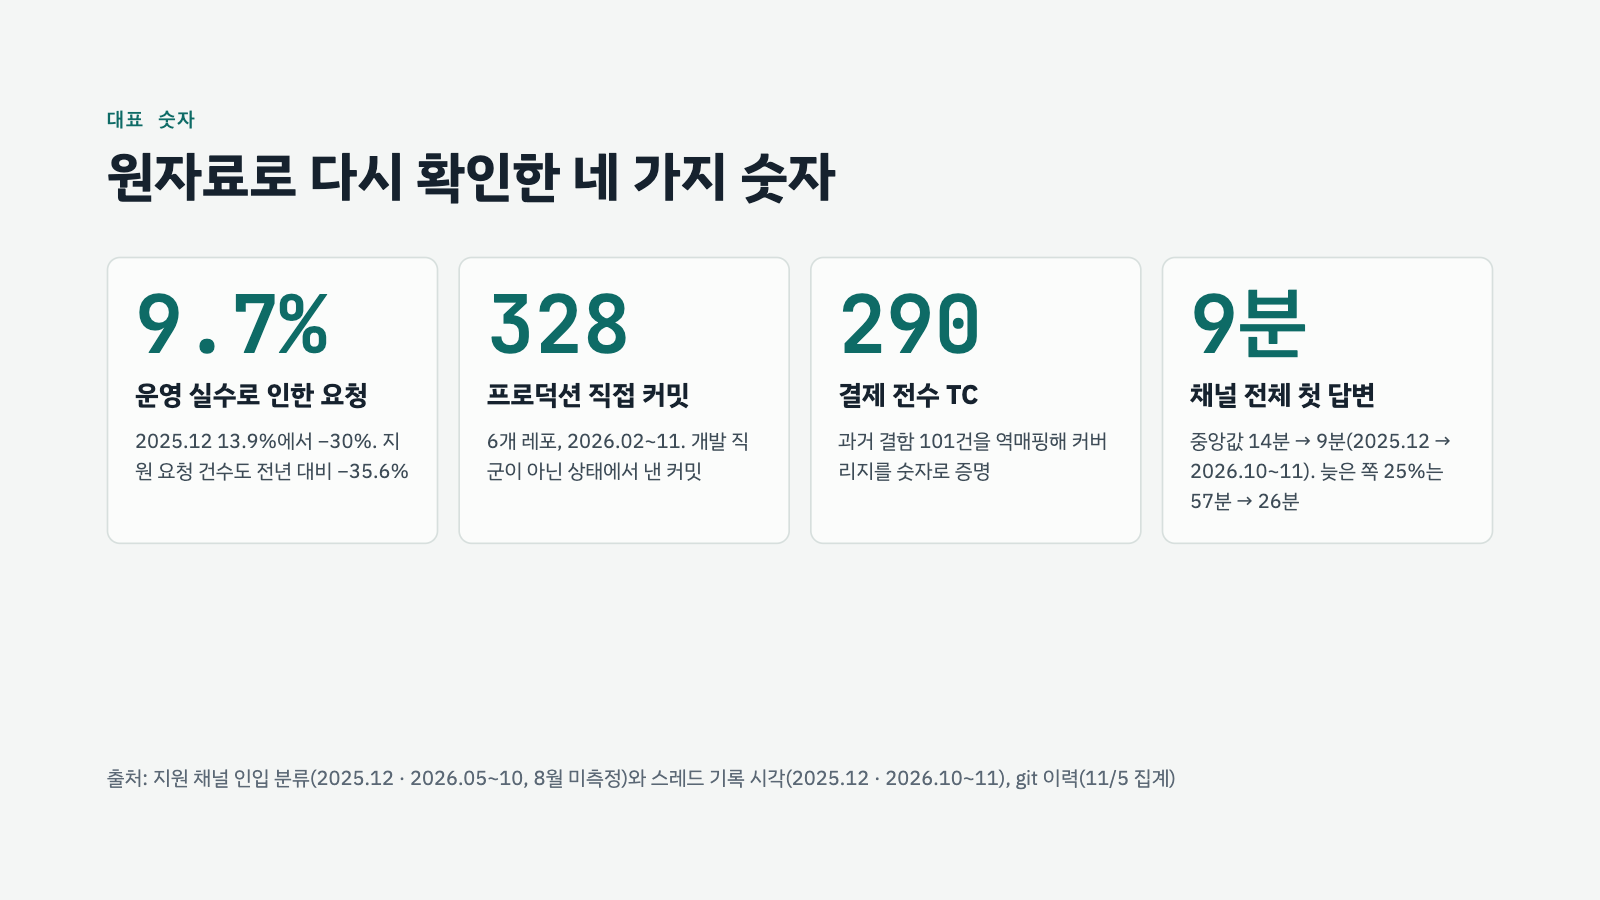
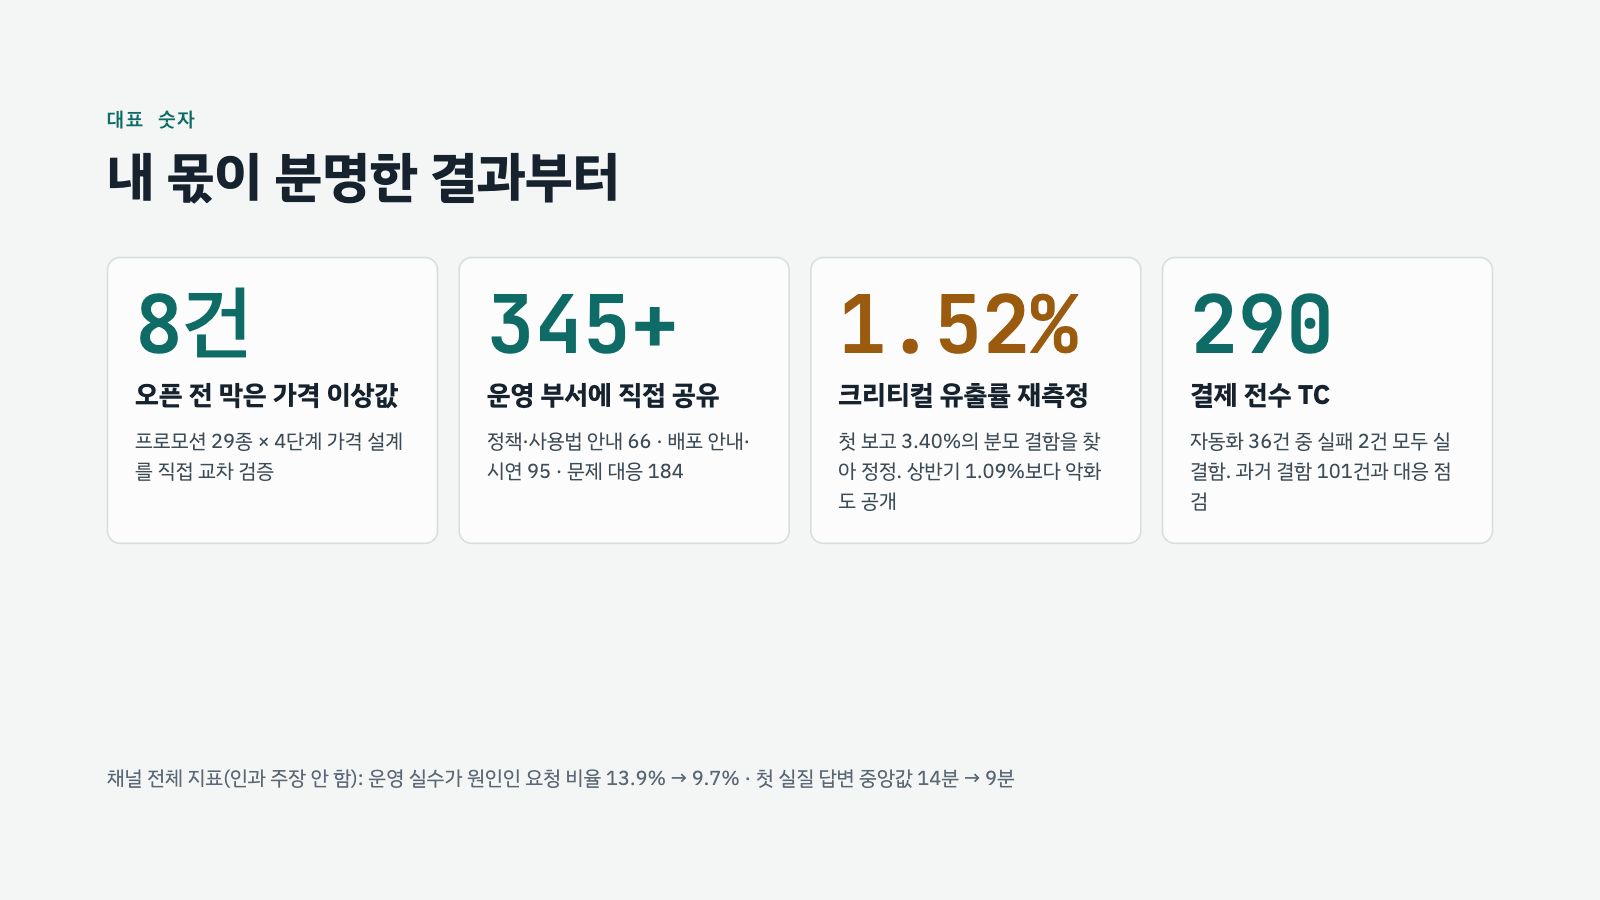
발표 자료: 대표 숫자 장을 본인 몫 결과 기준으로, 운영지원·유출률 장 문구 정리

diff --git a/5-presentation/portfolio-deck.html b/5-presentation/portfolio-deck.html
@@ -120,16 +120,16 @@ table.tbl th{font-weight:700}
 <section id="numbers">
 <div class="head">
 <p class="eyebrow">대표 숫자</p>
-<h2 class="title">원자료로 다시 확인한 네 가지 숫자</h2>
+<h2 class="title">내 몫이 분명한 결과부터</h2>
 </div>
 <div class="cols4">
-<div class="card"><p class="big">9.7%</p><h3 class="ctitle">운영 실수로 인한 요청</h3><p class="ctext">2025.12 13.9%에서 −30%. 지원 요청 건수도 전년 대비 −35.6%</p></div>
-<div class="card"><p class="big">328</p><h3 class="ctitle">프로덕션 직접 커밋</h3><p class="ctext">6개 레포, 2026.02~11. 개발 직군이 아닌 상태에서 낸 커밋</p></div>
-<div class="card"><p class="big">290</p><h3 class="ctitle">결제 전수 TC</h3><p class="ctext">과거 결함 101건을 역매핑해 커버리지를 숫자로 증명</p></div>
-<div class="card"><p class="big">9분</p><h3 class="ctitle">채널 전체 첫 답변</h3><p class="ctext">중앙값 14분 → 9분(2025.12 → 2026.10~11). 늦은 쪽 25%는 57분 → 26분</p></div>
+<div class="card"><p class="big">8건</p><h3 class="ctitle">오픈 전 막은 가격 이상값</h3><p class="ctext">프로모션 29종 × 4단계 가격 설계를 직접 교차 검증</p></div>
+<div class="card"><p class="big">345+</p><h3 class="ctitle">운영 부서에 직접 공유</h3><p class="ctext">정책·사용법 안내 66 · 배포 안내·시연 95 · 문제 대응 184</p></div>
+<div class="card"><p class="big warn">1.52%</p><h3 class="ctitle">크리티컬 유출률 재측정</h3><p class="ctext">첫 보고 3.40%의 분모 결함을 찾아 정정. 상반기 1.09%보다 악화도 공개</p></div>
+<div class="card"><p class="big">290</p><h3 class="ctitle">결제 전수 TC</h3><p class="ctext">자동화 36건 중 실패 2건 모두 실결함. 과거 결함 101건과 대응 점검</p></div>
 </div>
-<p class="source">출처: 지원 채널 인입 분류(2025.12 · 2026.05~10, 8월 미측정)와 스레드 기록 시각(2025.12 · 2026.10~11), git 이력(11/5 집계)</p>
-<aside>대표 숫자 네 개입니다. 첫 번째는 운영지원의 결과입니다. 운영자의 설정·조작 실수가 원인인 지원 요청 비율이 작년 12월 13.9%에서 올해 5~10월 9.7%로 30% 줄었고, 지원 요청 건수 자체도 1~10월 기준 전년보다 35.6% 줄었습니다. 다른 요인도 있어서 어드민 개선 하나의 효과라고 하지는 않습니다. 커밋 328건은 git 이력에서 직접 셌습니다. 네 번째는 지원 문의에 첫 실질 답변이 나가기까지 걸린 시간으로, 중앙값이 14분에서 9분으로 줄었습니다.</aside>
+<p class="source">채널 전체 지표(인과 주장 안 함): 운영 실수가 원인인 요청 비율 13.9% → 9.7% · 첫 실질 답변 중앙값 14분 → 9분</p>
+<aside>대표 숫자 네 개는 제 몫이 분명한 것으로 골랐습니다. 프로모션 가격을 직접 교차 검증해 오픈 전에 이상값 8건을 막았고, 운영 부서에는 안내와 시연, 문제 대응을 345건 넘게 직접 올렸습니다. 크리티컬 유출률은 제가 처음 보고한 3.40%의 분모가 틀렸다는 걸 하반기 재측정에서 찾아 고쳤고, 고친 기준으로 하반기가 나빠진 것도 그대로 보여드립니다. 결제 TC는 290건을 설계했고 자동화한 36건에서 나온 실패 2건이 모두 실제 결함이었습니다. 아래 줄의 운영 실수 비율과 응답 시간은 채널 전체 값이라 제 효과라고 주장하지 않습니다.</aside>
 </section>
 <section id="backoffice">
 <div class="head">
@@ -172,7 +172,7 @@ table.tbl th{font-weight:700}
 <div class="card hl"><h3 class="ctitle">고친 값을 그대로</h3><p class="ctext">분모를 운영 배포 실행 횟수로: 상반기 7/645, 하반기 9/593. 목표 2%는 넘지 않았지만 하반기가 악화</p></div>
 </div>
 <p class="source">출처: 6개 레포 운영 배포 워크플로 성공 기록, 핫픽스는 git·지원 채널·티켓을 합쳐 판정(상반기 9건 중 7~8건 재현)</p>
-<aside>제가 오기 전에는 운영에서 터진 결함을 세는 기준이 없었습니다. 크리티컬 영역의 핫픽스를 운영 배포로 나눈 크리티컬 유출률을 만들었고, 상반기에 3.40%로 목표 2%에 못 미친다고 보고했습니다. 하반기에 같은 방식으로 다시 재다가 분모가 48건으로 떨어지는 걸 보고 이상하다는 걸 알았습니다. 분모로 쓴 main 브랜치 머지 커밋이, PR을 squash로 머지하면 남지 않았던 겁니다. 상반기 분모도 실제 배포보다 훨씬 적게 잡혀 있었습니다. 분모를 운영 배포 실행 횟수로 바꿔 두 반기를 다시 계산하니 상반기 1.09%, 하반기 1.52%였습니다. 목표는 넘지 않았지만 하반기가 나빠졌고, 그것도 그대로 보고합니다. 제가 만든 숫자라도 다시 재서 틀리면 고칩니다.</aside>
+<aside>2026년 전까지는 운영에서 터진 결함을 세는 기준이 없었습니다. 크리티컬 영역의 핫픽스를 운영 배포로 나눈 크리티컬 유출률을 만들었고, 상반기에 3.40%로 목표 2%에 못 미친다고 보고했습니다. 하반기에 같은 방식으로 다시 재다가 분모가 48건으로 떨어지는 걸 보고 이상하다는 걸 알았습니다. 분모로 쓴 main 브랜치 머지 커밋이, PR을 squash로 머지하면 남지 않았던 겁니다. 상반기 분모도 실제 배포보다 훨씬 적게 잡혀 있었습니다. 분모를 운영 배포 실행 횟수로 바꿔 두 반기를 다시 계산하니 상반기 1.09%, 하반기 1.52%였습니다. 목표는 넘지 않았지만 하반기가 나빠졌고, 그것도 그대로 보고합니다. 제가 만든 숫자라도 다시 재서 틀리면 고칩니다.</aside>
 </section>
 <section id="rootcause">
 <div class="head">
@@ -214,7 +214,7 @@ table.tbl th{font-weight:700}
 <x-shape kind="arrow-right" class="arrow"></x-shape>
 <div class="card"><p class="yr">3 조치</p><h3 class="ctitle">끝낼 곳 결정</h3><p class="ctext">운영 조치로 끝낼지, 개발이 필요한지. 필요하면 티켓으로</p></div>
 <x-shape kind="arrow-right" class="arrow"></x-shape>
-<div class="card hl"><p class="yr">4 재발 방지</p><h3 class="ctitle">되돌리기</h3><p class="ctext">TC·체크리스트·어드민 가드로 반영. 운영 실수 비율은 주간 자동 집계</p></div>
+<div class="card hl"><p class="yr">4 재발 방지</p><h3 class="ctitle">되돌리기</h3><p class="ctext">TC·체크리스트·어드민 가드로 반영. 운영 실수 비율은 월 단위로 같은 정의로 측정</p></div>
 </div>
 <div class="cols3">
 <div class="card hl compact"><p class="big" style="font-size:72px;">13.9→9.7%</p><h3 class="ctitle">운영 실수로 인한 요청 비율</h3><p class="ctext">2025.12 대비 2026.05~10 합산(8월 미측정), −30%</p></div>

diff --git a/5-presentation/src/slides/numbers.html b/5-presentation/src/slides/numbers.html
@@ -1,14 +1,14 @@
 <section id="numbers">
 <div class="head">
 <p class="eyebrow">대표 숫자</p>
-<h2 class="title">원자료로 다시 확인한 네 가지 숫자</h2>
+<h2 class="title">내 몫이 분명한 결과부터</h2>
 </div>
 <div class="cols4">
-<div class="card"><p class="big">9.7%</p><h3 class="ctitle">운영 실수로 인한 요청</h3><p class="ctext">2025.12 13.9%에서 −30%. 지원 요청 건수도 전년 대비 −35.6%</p></div>
-<div class="card"><p class="big">328</p><h3 class="ctitle">프로덕션 직접 커밋</h3><p class="ctext">6개 레포, 2026.02~11. 개발 직군이 아닌 상태에서 낸 커밋</p></div>
-<div class="card"><p class="big">290</p><h3 class="ctitle">결제 전수 TC</h3><p class="ctext">과거 결함 101건을 역매핑해 커버리지를 숫자로 증명</p></div>
-<div class="card"><p class="big">9분</p><h3 class="ctitle">채널 전체 첫 답변</h3><p class="ctext">중앙값 14분 → 9분(2025.12 → 2026.10~11). 늦은 쪽 25%는 57분 → 26분</p></div>
+<div class="card"><p class="big">8건</p><h3 class="ctitle">오픈 전 막은 가격 이상값</h3><p class="ctext">프로모션 29종 × 4단계 가격 설계를 직접 교차 검증</p></div>
+<div class="card"><p class="big">345+</p><h3 class="ctitle">운영 부서에 직접 공유</h3><p class="ctext">정책·사용법 안내 66 · 배포 안내·시연 95 · 문제 대응 184</p></div>
+<div class="card"><p class="big warn">1.52%</p><h3 class="ctitle">크리티컬 유출률 재측정</h3><p class="ctext">첫 보고 3.40%의 분모 결함을 찾아 정정. 상반기 1.09%보다 악화도 공개</p></div>
+<div class="card"><p class="big">290</p><h3 class="ctitle">결제 전수 TC</h3><p class="ctext">자동화 36건 중 실패 2건 모두 실결함. 과거 결함 101건과 대응 점검</p></div>
 </div>
-<p class="source">출처: 지원 채널 인입 분류(2025.12 · 2026.05~10, 8월 미측정)와 스레드 기록 시각(2025.12 · 2026.10~11), git 이력(11/5 집계)</p>
-<aside>대표 숫자 네 개입니다. 첫 번째는 운영지원의 결과입니다. 운영자의 설정·조작 실수가 원인인 지원 요청 비율이 작년 12월 13.9%에서 올해 5~10월 9.7%로 30% 줄었고, 지원 요청 건수 자체도 1~10월 기준 전년보다 35.6% 줄었습니다. 다른 요인도 있어서 어드민 개선 하나의 효과라고 하지는 않습니다. 커밋 328건은 git 이력에서 직접 셌습니다. 네 번째는 지원 문의에 첫 실질 답변이 나가기까지 걸린 시간으로, 중앙값이 14분에서 9분으로 줄었습니다.</aside>
+<p class="source">채널 전체 지표(인과 주장 안 함): 운영 실수가 원인인 요청 비율 13.9% → 9.7% · 첫 실질 답변 중앙값 14분 → 9분</p>
+<aside>대표 숫자 네 개는 제 몫이 분명한 것으로 골랐습니다. 프로모션 가격을 직접 교차 검증해 오픈 전에 이상값 8건을 막았고, 운영 부서에는 안내와 시연, 문제 대응을 345건 넘게 직접 올렸습니다. 크리티컬 유출률은 제가 처음 보고한 3.40%의 분모가 틀렸다는 걸 하반기 재측정에서 찾아 고쳤고, 고친 기준으로 하반기가 나빠진 것도 그대로 보여드립니다. 결제 TC는 290건을 설계했고 자동화한 36건에서 나온 실패 2건이 모두 실제 결함이었습니다. 아래 줄의 운영 실수 비율과 응답 시간은 채널 전체 값이라 제 효과라고 주장하지 않습니다.</aside>
 </section>

diff --git a/5-presentation/src/slides/escape.html b/5-presentation/src/slides/escape.html
@@ -12,5 +12,5 @@
 <div class="card hl"><h3 class="ctitle">고친 값을 그대로</h3><p class="ctext">분모를 운영 배포 실행 횟수로: 상반기 7/645, 하반기 9/593. 목표 2%는 넘지 않았지만 하반기가 악화</p></div>
 </div>
 <p class="source">출처: 6개 레포 운영 배포 워크플로 성공 기록, 핫픽스는 git·지원 채널·티켓을 합쳐 판정(상반기 9건 중 7~8건 재현)</p>
-<aside>제가 오기 전에는 운영에서 터진 결함을 세는 기준이 없었습니다. 크리티컬 영역의 핫픽스를 운영 배포로 나눈 크리티컬 유출률을 만들었고, 상반기에 3.40%로 목표 2%에 못 미친다고 보고했습니다. 하반기에 같은 방식으로 다시 재다가 분모가 48건으로 떨어지는 걸 보고 이상하다는 걸 알았습니다. 분모로 쓴 main 브랜치 머지 커밋이, PR을 squash로 머지하면 남지 않았던 겁니다. 상반기 분모도 실제 배포보다 훨씬 적게 잡혀 있었습니다. 분모를 운영 배포 실행 횟수로 바꿔 두 반기를 다시 계산하니 상반기 1.09%, 하반기 1.52%였습니다. 목표는 넘지 않았지만 하반기가 나빠졌고, 그것도 그대로 보고합니다. 제가 만든 숫자라도 다시 재서 틀리면 고칩니다.</aside>
+<aside>2026년 전까지는 운영에서 터진 결함을 세는 기준이 없었습니다. 크리티컬 영역의 핫픽스를 운영 배포로 나눈 크리티컬 유출률을 만들었고, 상반기에 3.40%로 목표 2%에 못 미친다고 보고했습니다. 하반기에 같은 방식으로 다시 재다가 분모가 48건으로 떨어지는 걸 보고 이상하다는 걸 알았습니다. 분모로 쓴 main 브랜치 머지 커밋이, PR을 squash로 머지하면 남지 않았던 겁니다. 상반기 분모도 실제 배포보다 훨씬 적게 잡혀 있었습니다. 분모를 운영 배포 실행 횟수로 바꿔 두 반기를 다시 계산하니 상반기 1.09%, 하반기 1.52%였습니다. 목표는 넘지 않았지만 하반기가 나빠졌고, 그것도 그대로 보고합니다. 제가 만든 숫자라도 다시 재서 틀리면 고칩니다.</aside>
 </section>

diff --git a/5-presentation/src/slides/opsupport.html b/5-presentation/src/slides/opsupport.html
@@ -10,7 +10,7 @@
 <x-shape kind="arrow-right" class="arrow"></x-shape>
 <div class="card"><p class="yr">3 조치</p><h3 class="ctitle">끝낼 곳 결정</h3><p class="ctext">운영 조치로 끝낼지, 개발이 필요한지. 필요하면 티켓으로</p></div>
 <x-shape kind="arrow-right" class="arrow"></x-shape>
-<div class="card hl"><p class="yr">4 재발 방지</p><h3 class="ctitle">되돌리기</h3><p class="ctext">TC·체크리스트·어드민 가드로 반영. 운영 실수 비율은 주간 자동 집계</p></div>
+<div class="card hl"><p class="yr">4 재발 방지</p><h3 class="ctitle">되돌리기</h3><p class="ctext">TC·체크리스트·어드민 가드로 반영. 운영 실수 비율은 월 단위로 같은 정의로 측정</p></div>
 </div>
 <div class="cols3">
 <div class="card hl compact"><p class="big" style="font-size:72px;">13.9→9.7%</p><h3 class="ctitle">운영 실수로 인한 요청 비율</h3><p class="ctext">2025.12 대비 2026.05~10 합산(8월 미측정), −30%</p></div>
